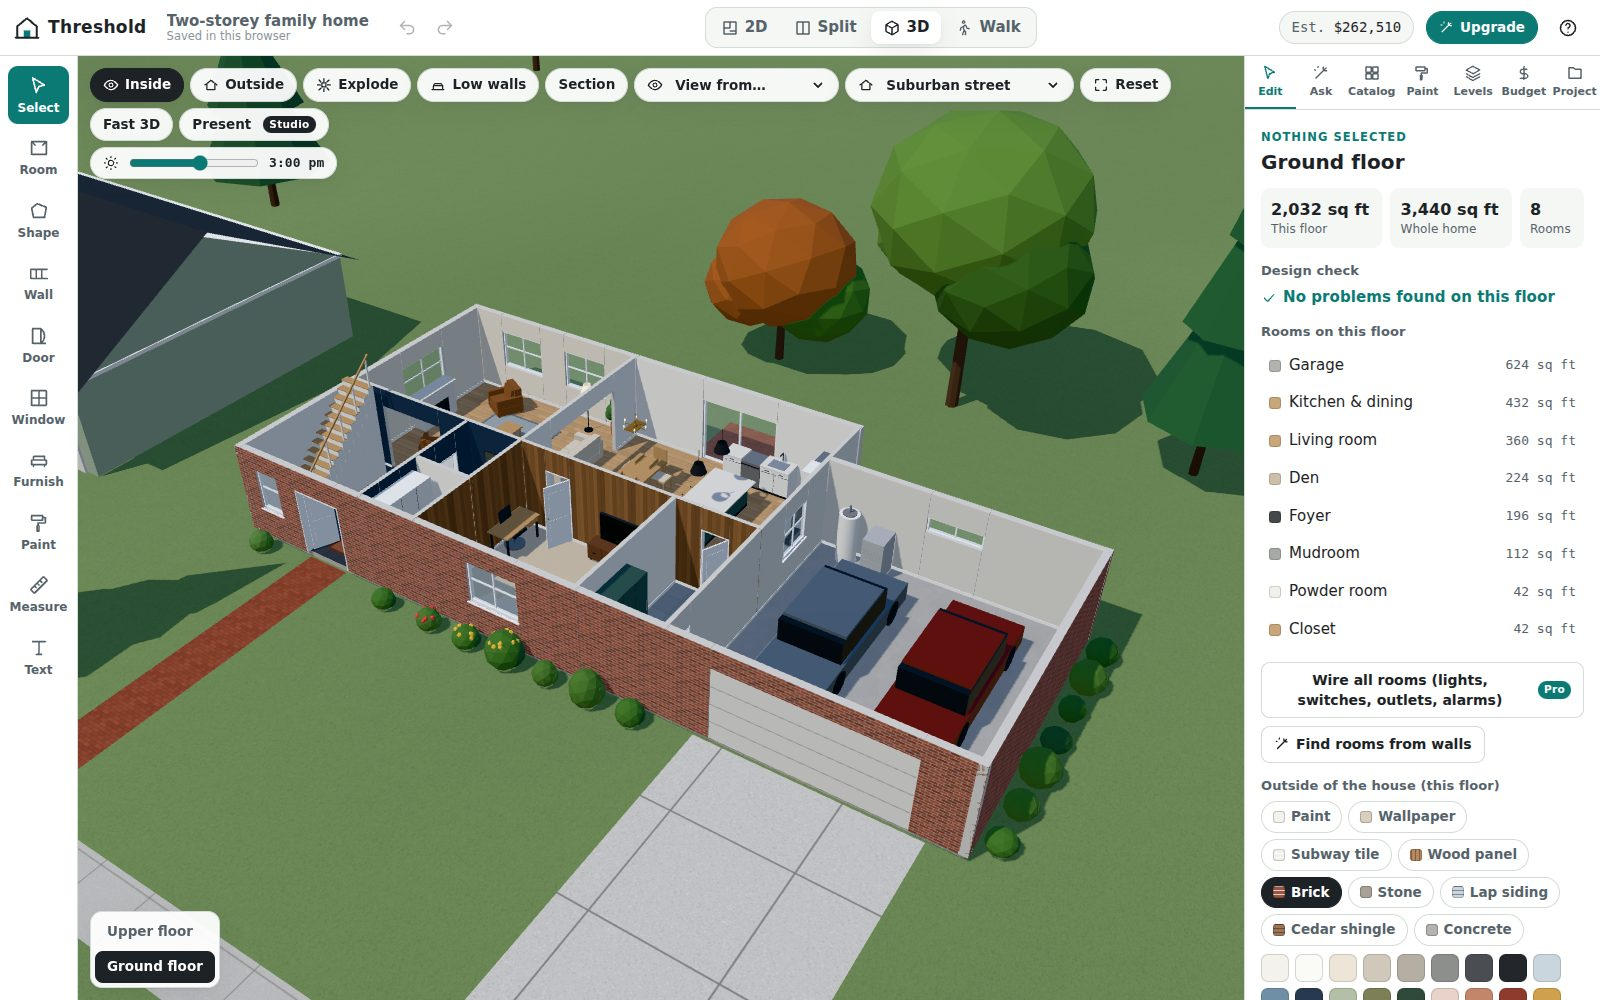
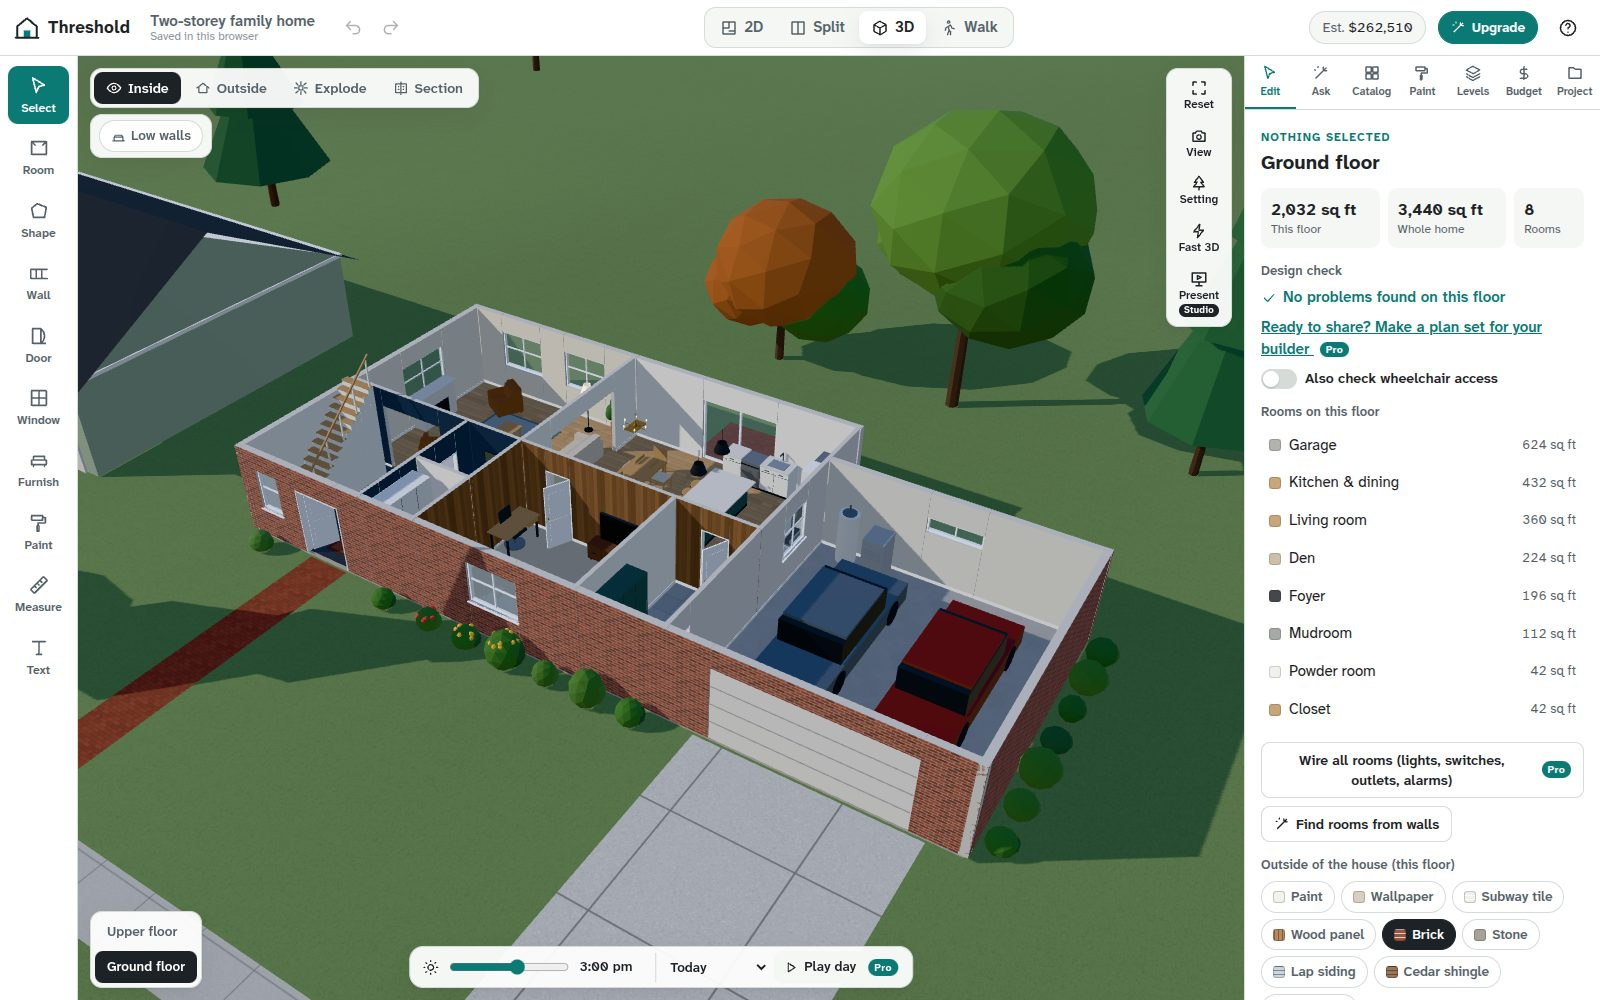
Marketing page: fresh product screenshots
The landing page pictures still showed the old 3D toolbar and a
fallback font. They are retaken with the redesigned toolbar, the real
typefaces and no onboarding checklist; the dusk picture is taken just
after the real sunset, and its caption no longer names a clock time.
scripts/marketing-shots.mjs uses the new toolbar and the font cache.

Claude-Session: https://claude.ai/code/session_01VT6PQqrJs6sq5nCAd8Zh6h

diff --git a/src/landing/main.tsx b/src/landing/main.tsx
@@ -81,7 +81,7 @@ const STORIES: Array<{ title: string; body: string; img: string; alt: string; di
     body: 'Your home sits on a real-looking street with a driveway, a front path, planting beds and neighbours. Slide the sun to evening and watch the windows light up.',
     img: 'shots/night.jpg',
     alt: 'The house seen from across the street in the evening with lit windows',
-    dim: 'Dusk · 8:30 pm',
+    dim: 'Dusk · after sunset',
   },
   {
     title: 'Know what it costs and what to buy',
